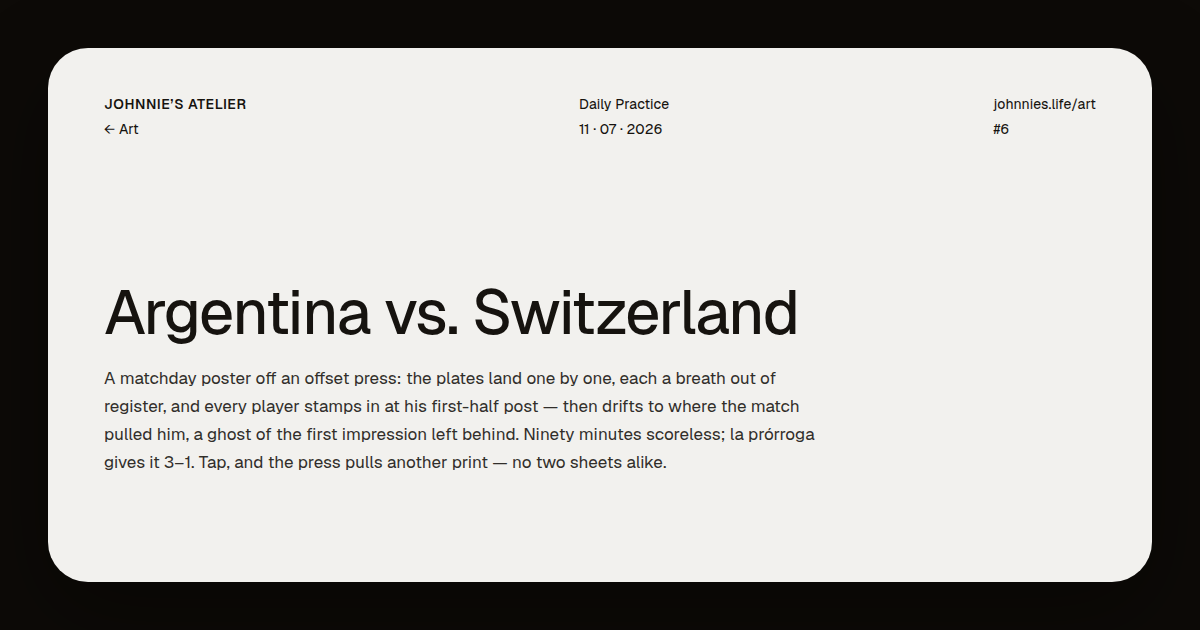
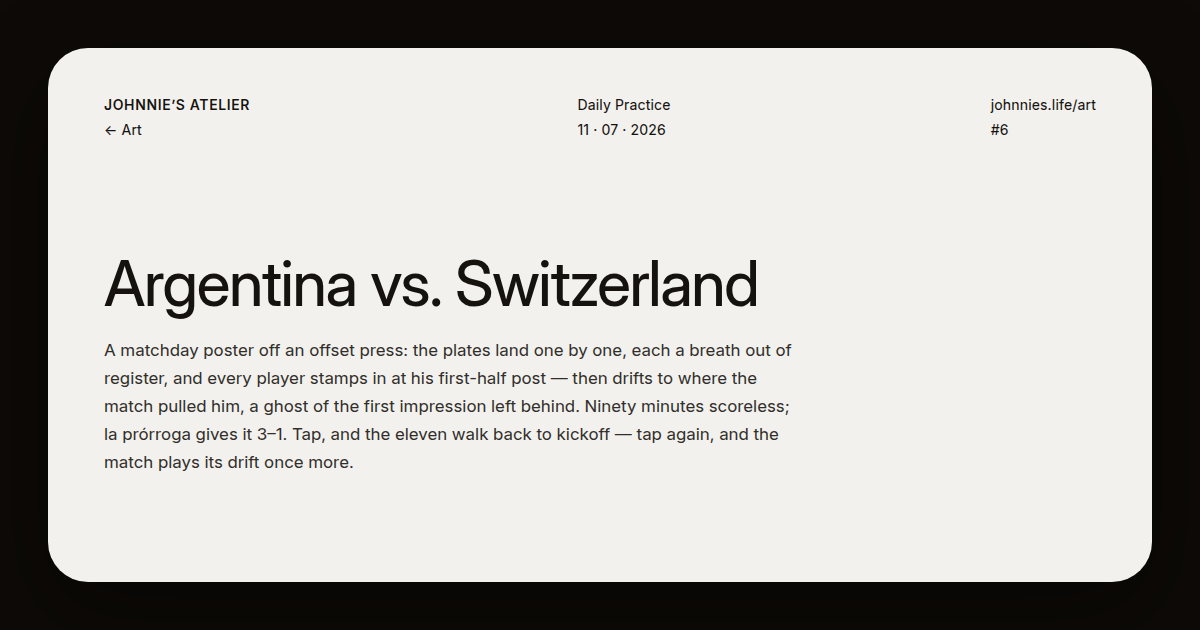
art: #6 the whole page speaks Inter (#380)
On Afiche's page the poster's voice takes the room: an html body rule
(outranking the frame's later body rule) points the chrome — panel,
pill, nav — at Inter alongside the artwork. Other pieces keep Geist.
OG card regenerated with the Inter chrome.

diff --git a/johnnie/public/art/sketches/006.html b/johnnie/public/art/sketches/006.html
@@ -24,6 +24,10 @@ font-weight:100 900;font-style:normal;font-display:swap}
    cmap — no feature-settings support required anywhere */
 @font-face{font-family:'InterAlt';src:url('../lib/fonts/InterVariable-alt1.woff2') format('woff2');
 font-weight:100 900;font-style:normal;font-display:swap}
+/* on this page the poster's voice takes the whole room: the frame's
+   chrome (panel, pill, nav) speaks Inter too — html body outranks the
+   frame's own body rule, which lands later in document order */
+html body{font-family:'Inter',ui-sans-serif,system-ui,sans-serif}
 </style>
 <script src="../art.js"></script>
 <script src="../frame.js"></script>